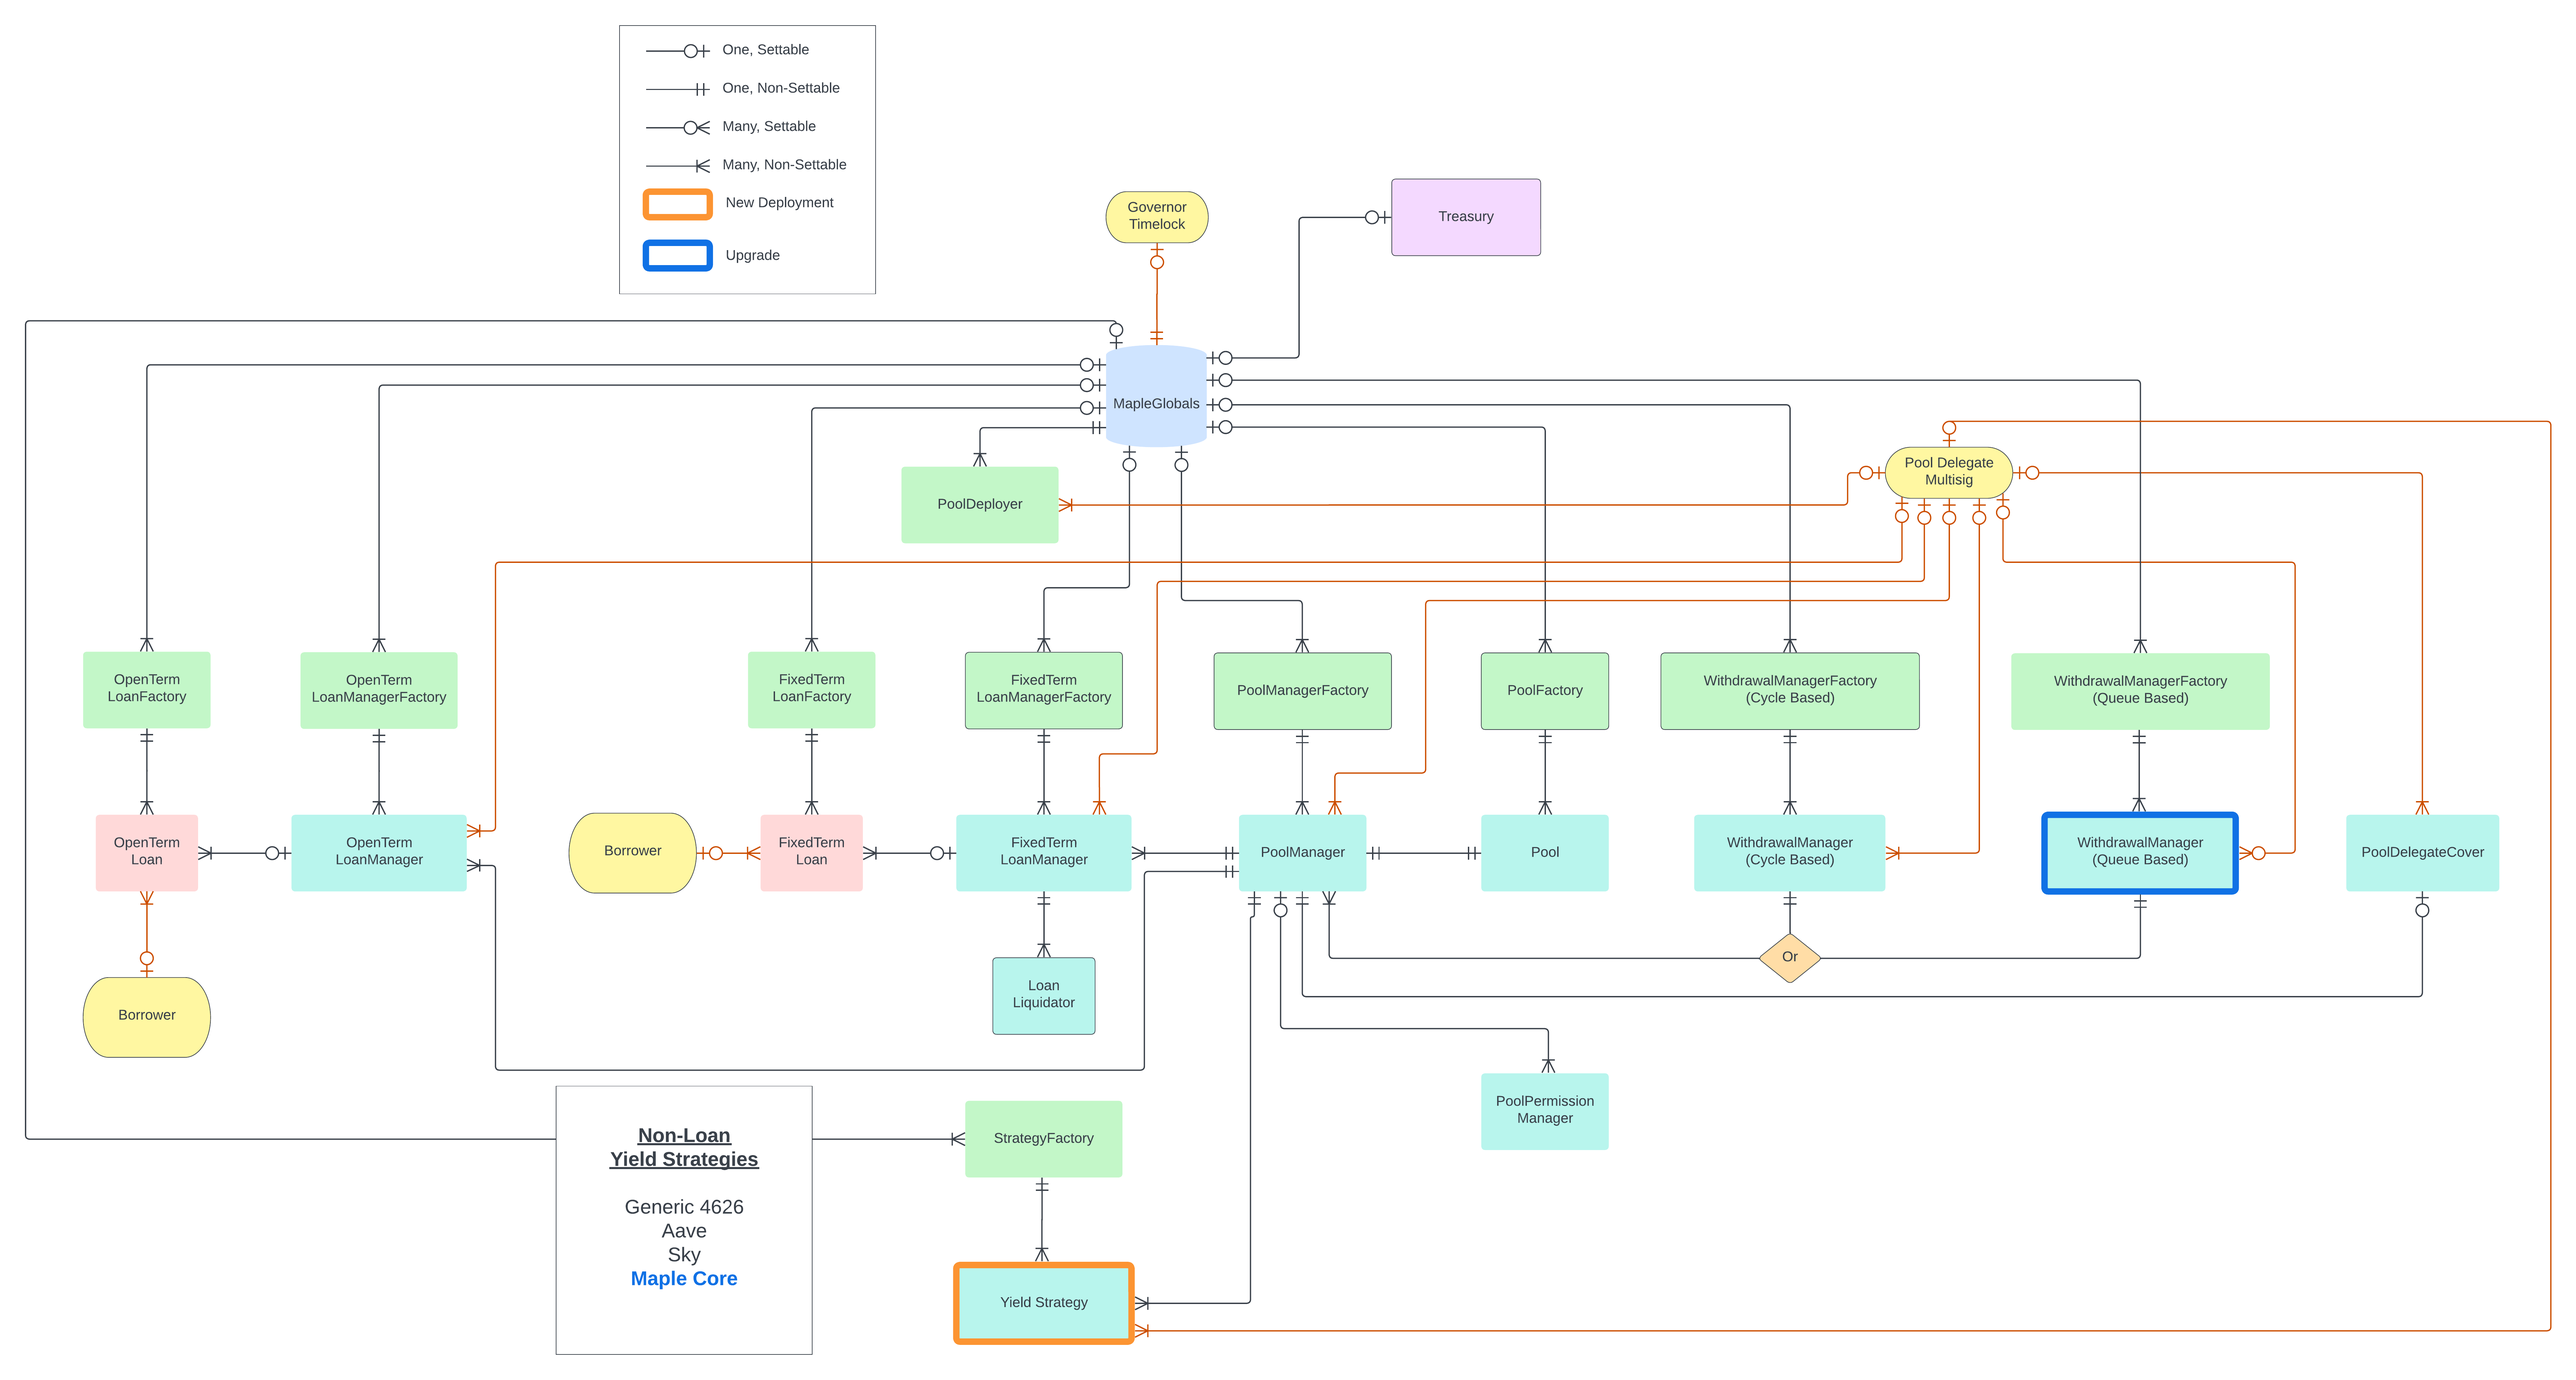
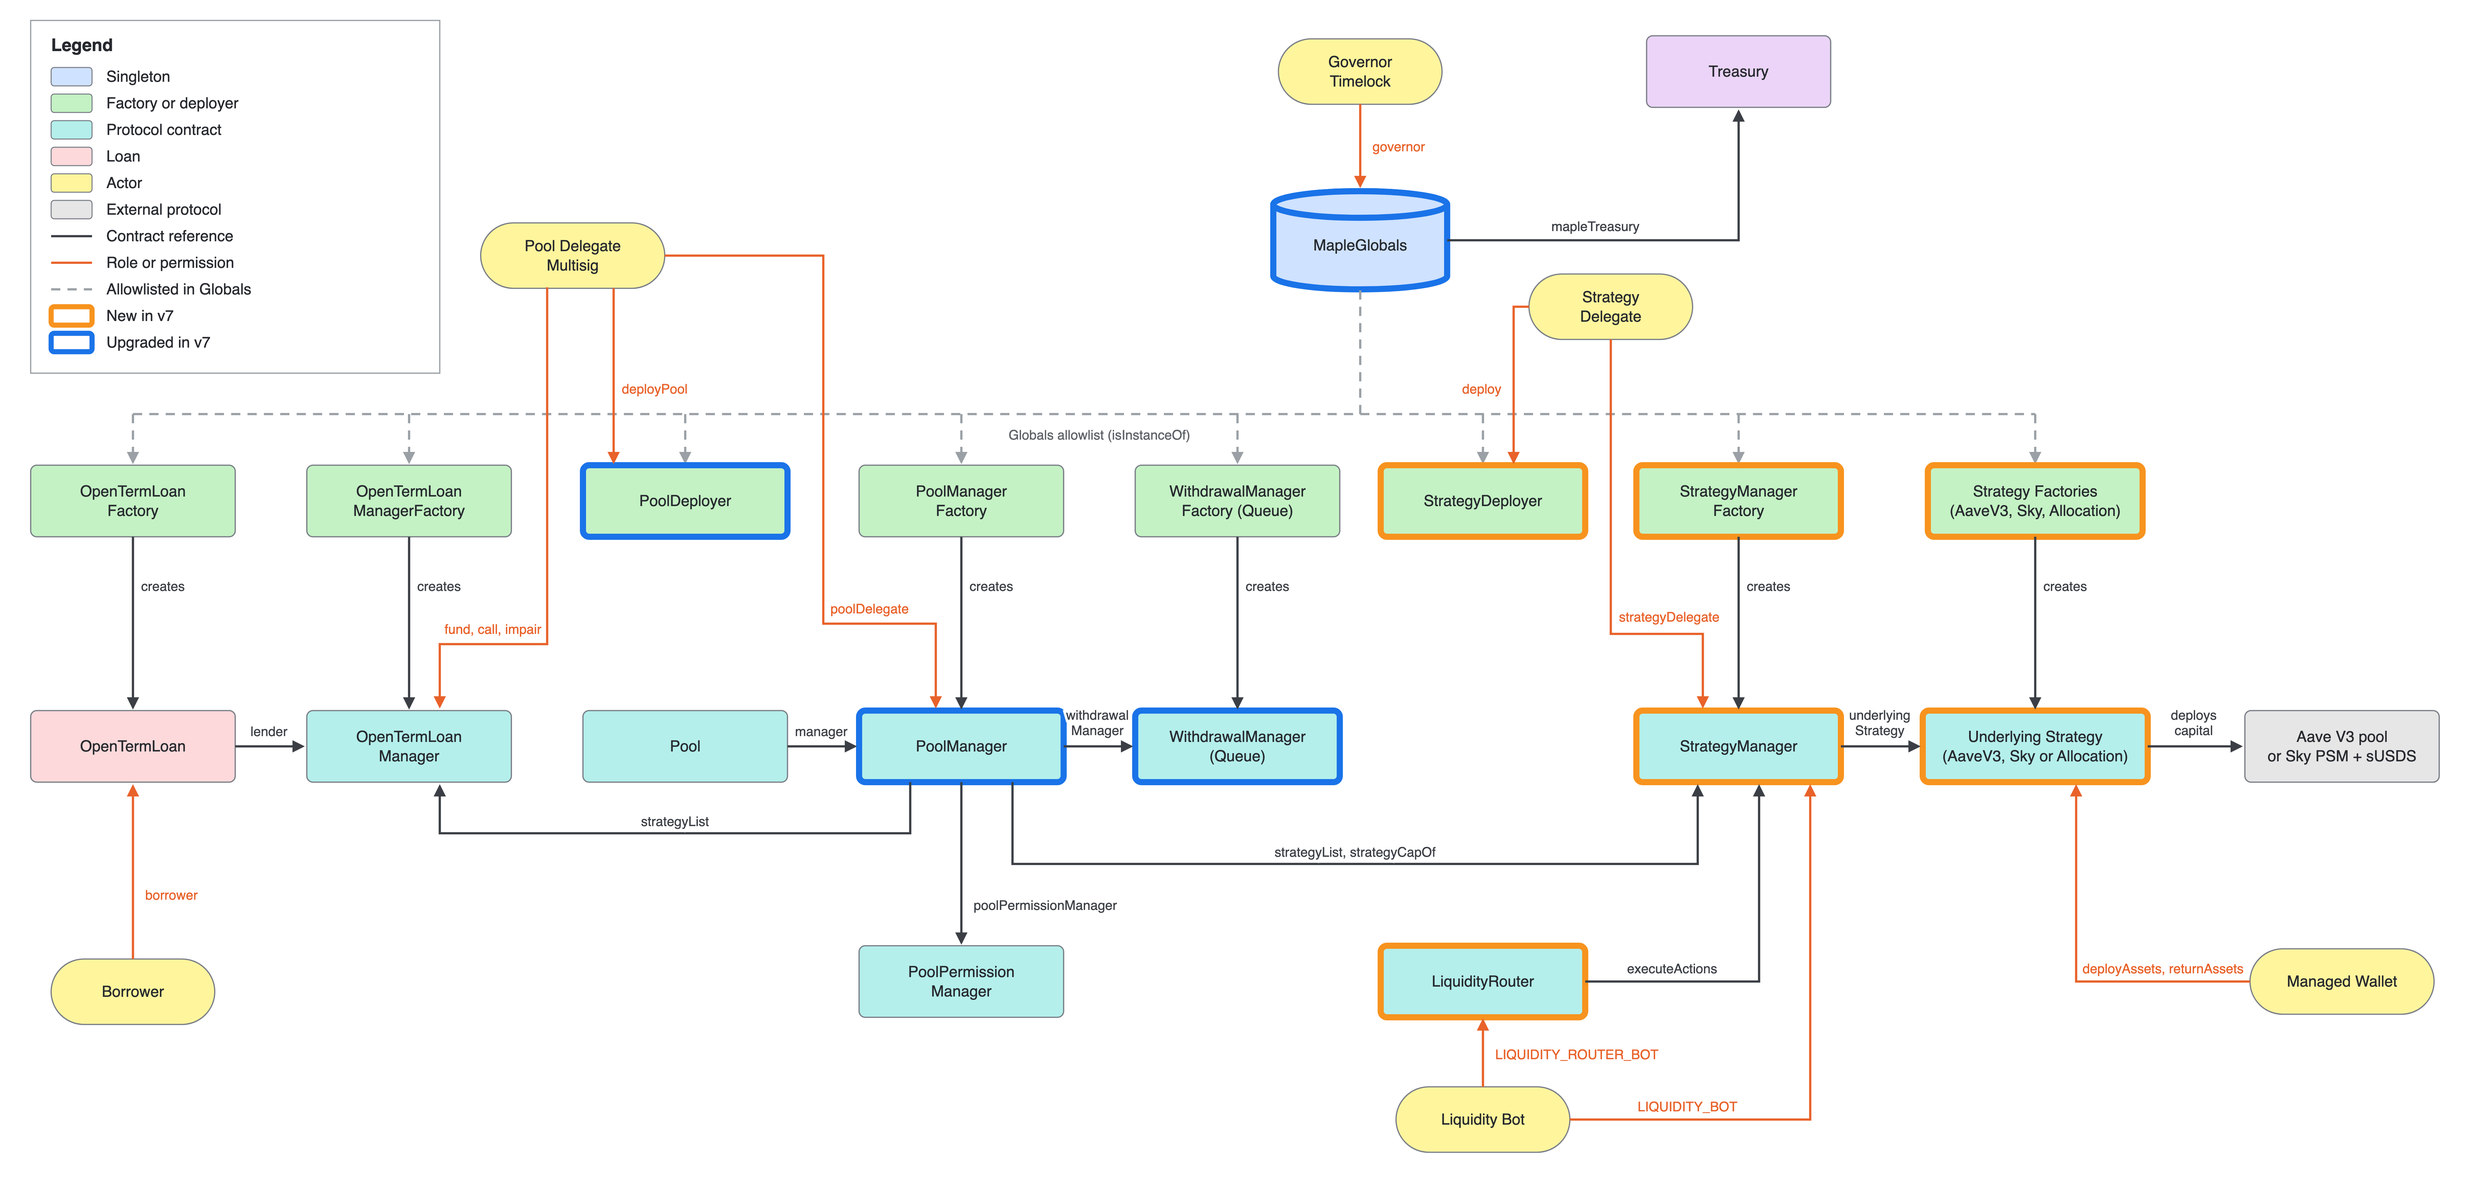
docs: Update SystemArchitecture.png for v7
Redraw the architecture image for the v7 contracts and use it on Smart Contract Architecture in place of the Mermaid diagram. New v7 contracts have orange borders and upgraded ones blue, as in the previous image.

diff --git a/technical-resources/protocol-overview/smart-contract-architecture.md b/technical-resources/protocol-overview/smart-contract-architecture.md
@@ -2,72 +2,7 @@
 
 In this section, the architecture of the Maple v7 protocol is outlined, including the rationale behind each decision.
 
-```mermaid
-flowchart TB
-    subgraph Singletons
-        GT[Governor Timelock]
-        G[Maple Globals]
-        T[Maple Treasury]
-        PPM[Pool Permission Manager]
-        GT -->|admin| G
-    end
-
-    subgraph Deployment
-        PD[Pool Deployer]
-        SD[Strategy Deployer]
-        PMF[Pool Manager Factory]
-        WMF[Withdrawal Manager Factory]
-        OTLMF[Open Term Loan Manager Factory]
-        LF[Open Term Loan Factory]
-        SMF[Strategy Manager Factory]
-        USF[Strategy Factories<br/>Aave V3, Sky, Allocation]
-        PD --> PMF
-        PD --> WMF
-        PD --> OTLMF
-        SD --> SMF
-        SD --> USF
-    end
-
-    subgraph PerPool["Per Pool"]
-        P[Pool]
-        PM[Pool Manager]
-        WM[Withdrawal Manager]
-        OTLM[Open Term Loan Manager]
-        LOAN[Open Term Loan]
-        P -->|manager| PM
-        PM -->|withdrawalManager| WM
-        PM -->|strategyList| OTLM
-        LOAN -->|lender| OTLM
-    end
-
-    subgraph Shared["Shared Strategy"]
-        SM[Strategy Manager]
-        US[Underlying Strategy<br/>Aave V3, Sky or Allocation]
-        V[(Aave pool, Sky PSM and sUSDS,<br/>or Managed Wallets)]
-        SM -->|underlyingStrategy| US
-        US --> V
-    end
-
-    LR[Liquidity Router]
-
-    PM -->|poolPermissionManager| PPM
-    PM -->|strategyList, strategyCapOf| SM
-    SM -->|sharesOf| PM
-    BOT[Liquidity Bot] -->|executeActions| LR
-    LR -->|fundStrategyManager, requestRedeem,<br/>cancelRedemption, processRedemption| SM
-    PMF --> PM
-    WMF --> WM
-    OTLMF --> OTLM
-    LF --> LOAN
-    SMF --> SM
-    USF --> US
-    OTLM -->|platform fees| T
-    US -->|protocol fees| T
-    G -.->|roles, allowlists, pauses| PM
-    G -.-> SM
-    G -.-> US
-    G -.-> LR
-```
+![v7 Protocol Architecture](../../.gitbook/assets/SystemArchitecture.png)
 
 ## [Pool](../pools/pools.md)
 
